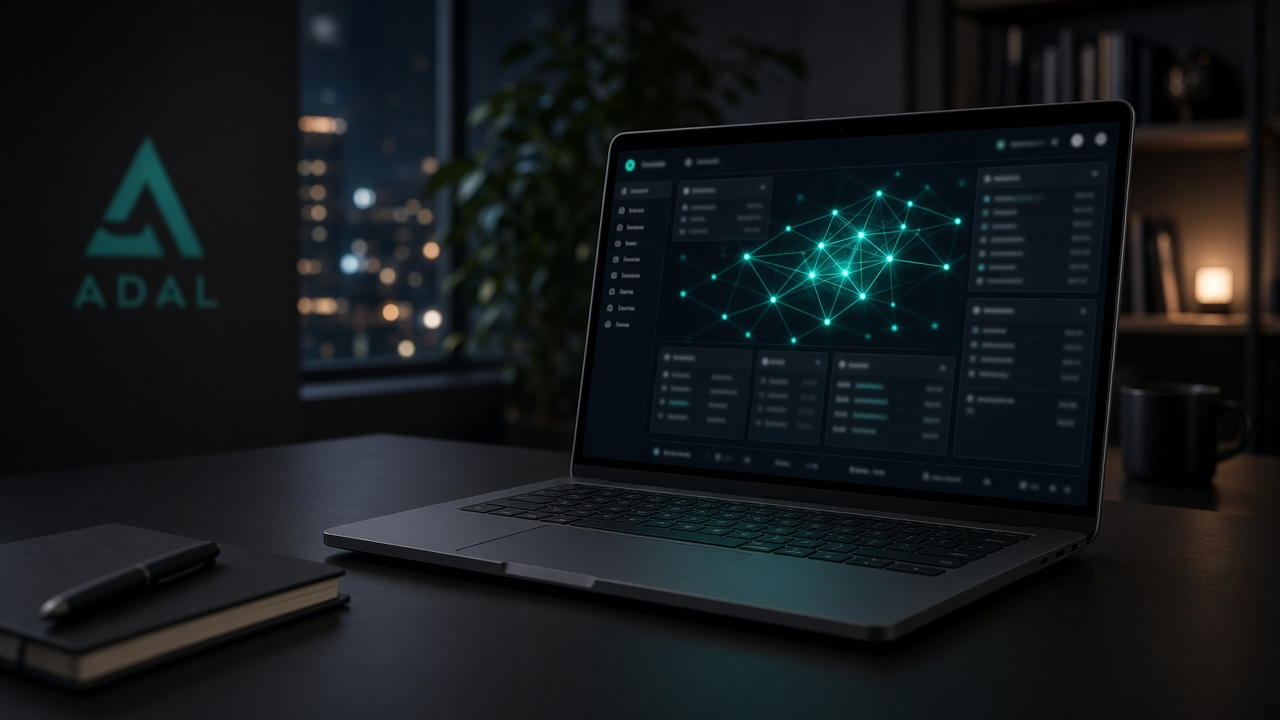
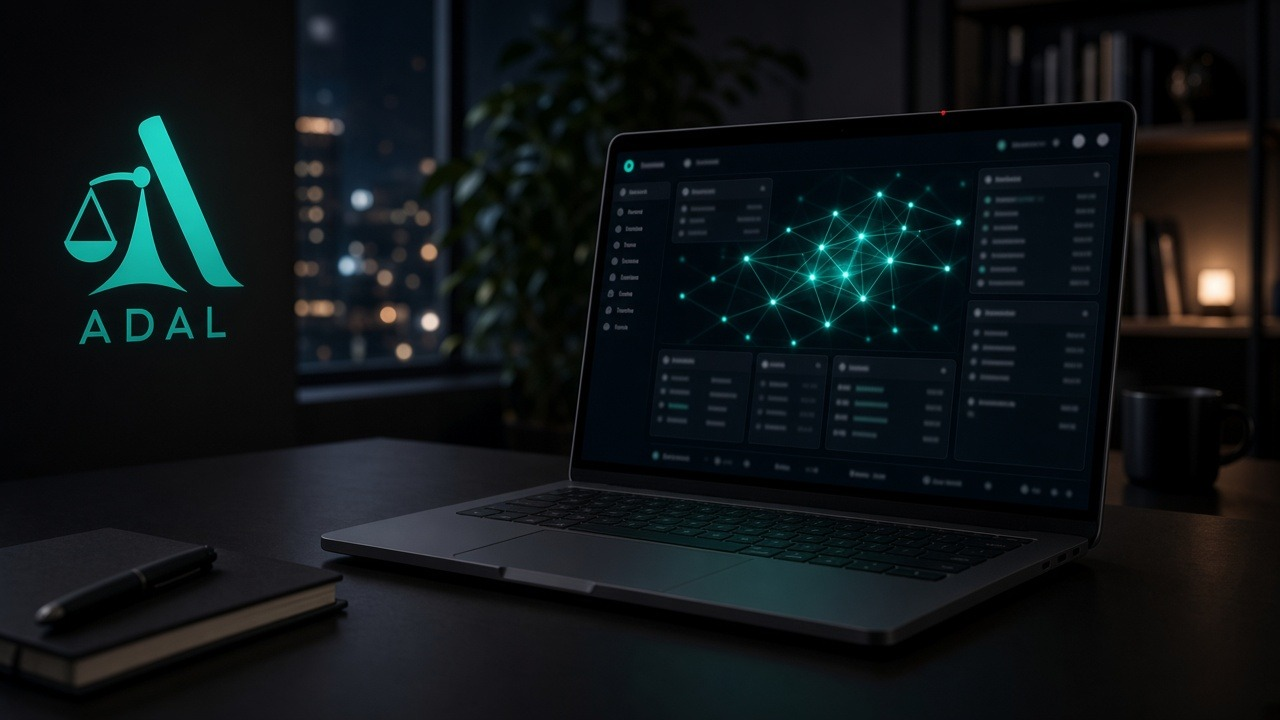
change spotlight image

diff --git a/frontend/src/pages/public/PricingPage.jsx b/frontend/src/pages/public/PricingPage.jsx
@@ -2,14 +2,17 @@ import { Link } from "react-router-dom";
 import { Navbar } from "../../components/layout";
 import Footer from "../../components/Footer";
 import { useAuth } from "../../hooks/useAuth";
+import { useTheme } from "../../context/ThemeContext";
 import { FiArrowRight } from "react-icons/fi";
 import ComingSoonPlanCards from "./marketing/ComingSoonPlanCards";
+import "./marketing/marketing-motion.css";
 
 /**
  * Public pricing preview. Checkout is not live yet — cards are non-clickable.
  */
 export default function PricingPage() {
   const { user } = useAuth();
+  const { isDarkMode } = useTheme();
 
   const audienceNote =
     user?.role === "CLIENT"
@@ -19,36 +22,56 @@ export default function PricingPage() {
         : "For lawyers and firms. Clients browse and book without a subscription.";
 
   return (
-    <div className="min-h-screen bg-background text-text-primary flex flex-col">
+    <div
+      className={`min-h-screen relative text-text-primary flex flex-col ${
+        isDarkMode ? "mkt-landing--dark bg-background" : "mkt-landing--light bg-background"
+      }`}
+    >
       <Navbar />
 
       <main className="flex-1">
-        <div className="border-b border-border">
-          <div className="max-w-[1100px] mx-auto px-6 py-14 sm:py-20 text-center">
-            <p className="text-sm font-semibold text-primary m-0 mb-3 tracking-wide uppercase">
+        {/* Hero Section with Radial Gradient Background */}
+        <header className="relative border-b border-border overflow-x-clip">
+          <div className="hero-bg-frame" aria-hidden>
+            <div
+              className={
+                isDarkMode
+                  ? "ken-burns absolute inset-0 bg-[radial-gradient(900px_420px_at_50%_-10%,rgba(10,107,110,0.35),transparent_60%)]"
+                  : "ken-burns absolute inset-0 bg-[radial-gradient(900px_420px_at_50%_-10%,rgba(8,84,86,0.14),transparent_60%)]"
+              }
+            />
+          </div>
+
+          <div className="relative max-w-[1100px] mx-auto px-4 sm:px-6 py-14 sm:py-20 text-center">
+            <p className="text-xs sm:text-sm font-semibold text-primary m-0 mb-3 tracking-wide uppercase">
               Pricing
             </p>
-            <h1 className="text-4xl sm:text-5xl font-bold text-text-primary m-0 leading-tight">
+            <h1 className="text-3xl sm:text-5xl font-bold text-text-primary m-0 leading-tight">
               Plans for modern legal practice
             </h1>
-            <p className="text-lg text-text-secondary max-w-[640px] mx-auto m-0 mt-4">
+            <p className="text-base sm:text-lg text-text-secondary max-w-[640px] mx-auto m-0 mt-4 leading-relaxed">
               Trial, Adal Base, Adal Max, and Law Firm plans for cases, AI, documents, and seats.
               Marketplace profile and bookings stay available for lawyers on every plan.
             </p>
-            <p className="text-sm text-text-muted max-w-[560px] mx-auto m-0 mt-3">{audienceNote}</p>
-            <p className="inline-flex items-center mt-5 px-3 py-1.5 rounded-full border border-border bg-surface text-xs font-semibold text-text-secondary">
-              Self-serve checkout coming soon
+            <p className="text-xs sm:text-sm text-text-muted max-w-[560px] mx-auto m-0 mt-3">
+              {audienceNote}
             </p>
+            <div className="mt-6">
+              <span className="inline-flex items-center px-3.5 py-1.5 rounded-full border border-border bg-card/80 backdrop-blur-sm text-xs font-semibold text-text-secondary shadow-sm">
+                Self-serve checkout coming soon
+              </span>
+            </div>
           </div>
-        </div>
+        </header>
 
+        {/* Pricing Cards & Audience Cards Section */}
         <div className="max-w-[1200px] mx-auto px-4 sm:px-6 py-12 sm:py-16">
           <ComingSoonPlanCards
             footnote="First month is a Base-level trial. Paid billing starts after trial when checkout goes live. Billing will be per workspace — firm members inherit the active firm plan."
           />
 
           <div className="mt-14 grid gap-4 sm:grid-cols-2 max-w-3xl mx-auto">
-            <div className="rounded-xl border border-border bg-card p-5 text-left">
+            <div className="mkt-card rounded-xl border border-border bg-card p-5 text-left">
               <h2 className="text-base font-semibold text-text-primary m-0">For clients</h2>
               <p className="text-sm text-text-secondary m-0 mt-2">
                 No subscription. Search verified lawyers, book consultations, and pay per session.
@@ -61,7 +84,8 @@ export default function PricingPage() {
                 <FiArrowRight className="w-4 h-4" />
               </Link>
             </div>
-            <div className="rounded-xl border border-border bg-card p-5 text-left">
+
+            <div className="mkt-card rounded-xl border border-border bg-card p-5 text-left">
               <h2 className="text-base font-semibold text-text-primary m-0">Want a walkthrough?</h2>
               <p className="text-sm text-text-secondary m-0 mt-2">
                 Book a demo or request setup help for your firm—no account required.

diff --git a/frontend/src/pages/public/RequestDemoPage.jsx b/frontend/src/pages/public/RequestDemoPage.jsx
@@ -4,8 +4,10 @@ import { FiArrowRight, FiCheck } from "react-icons/fi";
 import { Navbar } from "../../components/layout";
 import Footer from "../../components/Footer";
 import { Button, Input, Select, Textarea } from "../../components/ui";
+import { useTheme } from "../../context/ThemeContext";
 import { submitDemoRequest } from "../../services/demo.api";
 import { getErrorMessage } from "../../utils/errorHandler";
+import "./marketing/marketing-motion.css";
 
 const INTEREST_OPTIONS = [
   { value: "demo", label: "Product demo" },
@@ -34,6 +36,7 @@ const INITIAL = {
 };
 
 export default function RequestDemoPage() {
+  const { isDarkMode } = useTheme();
   const [form, setForm] = useState(INITIAL);
   const [fieldErrors, setFieldErrors] = useState({});
   const [submitting, setSubmitting] = useState(false);
@@ -96,12 +99,27 @@ export default function RequestDemoPage() {
   }
 
   return (
-    <div className="min-h-screen bg-background text-text-primary flex flex-col">
+    <div
+      className={`min-h-screen relative text-text-primary flex flex-col ${
+        isDarkMode ? "mkt-landing--dark bg-background" : "mkt-landing--light bg-background"
+      }`}
+    >
       <Navbar />
 
       <main className="flex-1">
-        <div className="border-b border-border">
-          <div className="max-w-[720px] mx-auto px-4 sm:px-6 py-10 sm:py-14">
+        {/* Hero Header Section with Radial Gradient Background */}
+        <header className="relative border-b border-border overflow-x-clip">
+          <div className="hero-bg-frame" aria-hidden>
+            <div
+              className={
+                isDarkMode
+                  ? "ken-burns absolute inset-0 bg-[radial-gradient(900px_420px_at_50%_-10%,rgba(10,107,110,0.35),transparent_60%)]"
+                  : "ken-burns absolute inset-0 bg-[radial-gradient(900px_420px_at_50%_-10%,rgba(8,84,86,0.14),transparent_60%)]"
+              }
+            />
+          </div>
+
+          <div className="relative max-w-[720px] mx-auto px-4 sm:px-6 py-10 sm:py-14 text-center">
             <p className="text-xs sm:text-sm font-semibold text-primary m-0 mb-3 tracking-wide uppercase">
               Request a demo
             </p>
@@ -113,8 +131,9 @@ export default function RequestDemoPage() {
               to schedule a demo or help with setup.
             </p>
           </div>
-        </div>
+        </header>
 
+        {/* Form Body Container */}
         <div className="max-w-[720px] mx-auto px-4 sm:px-6 py-8 sm:py-12">
           {done ? (
             <div className="rounded-2xl border border-border bg-card p-6 sm:p-8 text-center">
@@ -147,7 +166,7 @@ export default function RequestDemoPage() {
           ) : (
             <form
               onSubmit={handleSubmit}
-              className="relative rounded-2xl border border-border bg-card p-5 sm:p-8"
+              className="relative rounded-2xl border border-border bg-card p-5 sm:p-8 shadow-sm"
               noValidate
             >
               <div className="grid grid-cols-1 sm:grid-cols-2 gap-x-4">
